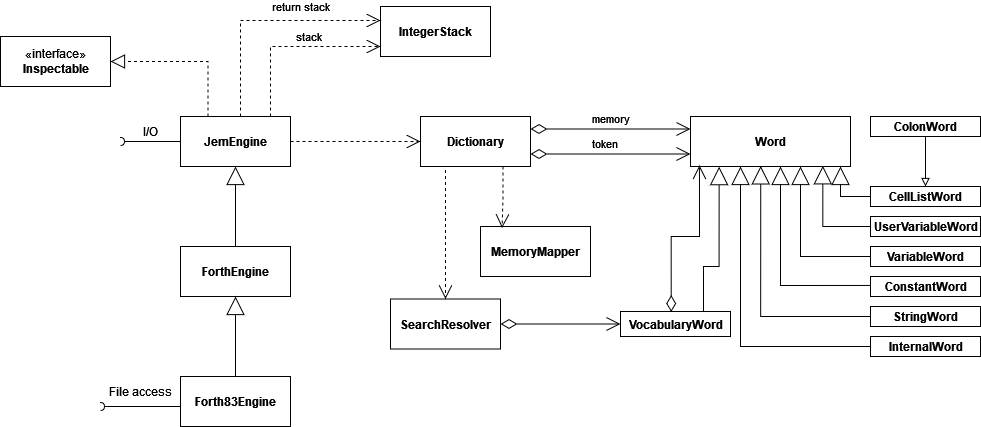
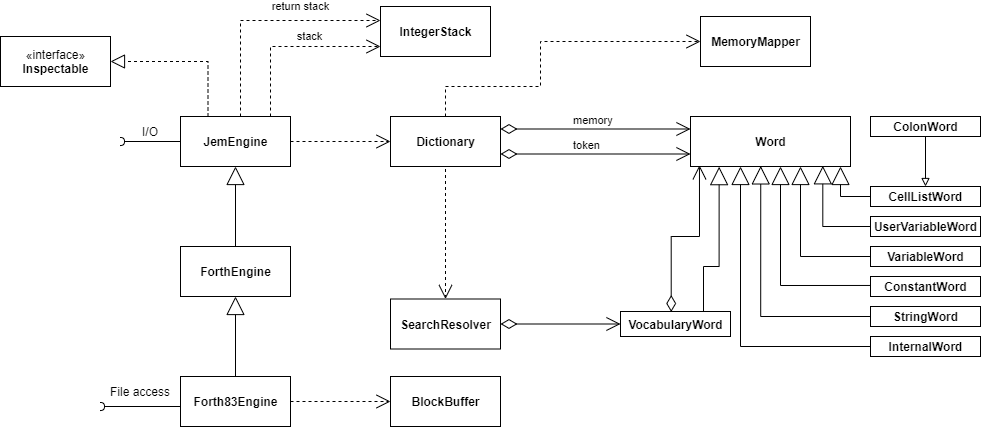
documanted the overall structure

diff --git a/src/doc/engine.md b/src/doc/engine.md
@@ -1,0 +1,117 @@
+# The Forth Class Model #
+
+The class diagram shows all classes involved in the forth engine system.
+It does not cover the classes connecting the entige to the "real world"
+such as the text console an the graphical IDE.
+![engine model diagram](engineModel.png)
+
+## Overview ##
+
+The system consists of x components 
+- The core engine with
+    - The memory stack
+    - The return Stack
+- The Dictionery with
+    - The Memory Mapper
+
+
+## The Engine Core ##
+The engine does the computing itself. It interprets existing words and
+compiles new words. It holds the two stacks needed for preocessing and
+has interfaces for I/O and file access.
+
+The <tt>inspectable</tt> interface is used to plug the enine into the IDE
+to display the internal state and provides a hook for debugging features.
+
+The core implementation is currently devided into thee classes inheriting from each other.
+The idea is to have layers for the implementation of different engines. The only one that is
+in some way complete is the <tt>Forth83Engine</tt> class that implements most of the Forth 83 standard.
+figForth 79, Forth 2012 might be other implementations.
+
+### JemEngine ###
+The Base class contains only a minimum set of fofth words needed.
+Anything else might be implemented as java or forth code in the other classes.
+It keeps the Stacks and provides all basic operations on them to keep the
+implementation hidden from the sub classes. The I/O is merely a set of hooks that
+are wrapped by forth words. The sub classes or the embedding system may provide
+implementations.
+
+### ForthEngine ###
+Contains a set of java implementations for forth words that are common to most of the
+forth variants. It is not good practice to use inheritance only to share methods and static
+elemnts -- especially _static_ elements like fields. But actually it was the easiest way to
+get all the words together and -- it works :-)
+
+### Forth83Engine ###
+This is, as mentioned above, a nearly complete implementation of the Forth 83 stdandard.
+Including the 1k-block oriented access to the file system emulated by the class <tt>BlockBuffer</tt>.
+
+It comes with a monochrome text console for a nice retro experience :-)<br>
+I also used it as an example to experiment with reactive pipes and the more classical I/O.
+
+## The Dictionary ##
+The Dictionary is the structure that contains all word definitions of a forth
+engine. The words in a dictionary may be grouped into multiple vocabularies.
+
+The vocabularies are not manages by a separate vocabulary class.
+Instead we use the forth approach and keep the words of a vocabulary as
+a list in a special <tt>VocabularyWord</tt> instance.
+
+The original forth approach to retrieve words throuch a linked list was replaced
+by an ordinary java <tt>List</tt> that is searched sequentially. The access speed
+should be similar but it should always be possible to replace the dictionary
+by a completely different implementation.
+
+A real forth system can access words by their physical memory access. Since the
+memory access in jemforth is not implemented as a big linear array, the access
+is speeded up by using an access token (xt) that identifies the word. The dictionary
+keepd a hash table that maps access token to word instances. This is not a hack,
+"real" threaded languages use the xt concept when the memory cannot be accessed
+directly or is not organized sequentially.
+
+The <tt>Dictionary</tt> class handles the memory access through the methods
+<tt>fetch</tt>, <tt>cFetch</tt>, <tt>store</tt> and <tt>cStore</tt>. The actual
+access to the data stored in the words is delegated to the individul words.
+The address calculation is delegated to the class <tt>MemoryMapper</tt>.
+
+### The SearchResolver ###
+The implementation is a bit messy here. The Forth83 standard uses a different approach
+to organize vocabularies in the decitionary. There's the _current_ dictionary that is
+used to retrieve words and the compile dictionary to which new words are compiled.
+
+The implementation got mixed up with the 2012 approach that uses _search orders_ to
+organize the vocabularies. Zhe implementatio is a hybrid that tries to combine both
+concepts -- this is not ideal...
+
+### The MemoryMapper ###
+In a real forth system (real) memory is organized as a large random access
+array with consecutive numbered cells. The JVM does not allow access to the
+physical memory making all memory access virtual. As a consequence jemForth
+emulates the linear address space making real memory access even more virtual
+than the virtual memory access of the JVM...
+
+The memory mapper is used to map logical memory specifiers -- the locators -- to
+point into a virtual linear memory space. The locators are integer numbers, not classes.
+This way address mapping can be done with bit operations and basic arithmetic operations
+for a better performance.
+
+It might be interesting to implement a strictly linear address space but it might be
+challenging to combine this with the java oriented word implemetations. The memoy mapping
+on the other hand enables pretty unforthy features as growing and shrinking string words.
+
+The memory mapper is basically a collection of static methods for address mapping.
+The only non static feature is a memory pointer that points to the next locator available 
+for word definition. There might be a problem when memory is freed with the FORGET word...
+
+### Words ###
+Always come easy -- when you are high on forth...
+
+Every word in a real forth system has the same structure. I wanted to use the power of java,
+especially the power of lambda expressions in the implememtation. Since it is not possible
+to use a memory address in java to directly trigger the processor interpretation, lambda expressions
+are used to represent native machine language. This is pretty close and pretty cool either.
+
+To make the implementation even easier I decided to use different implementations for different
+words. It is possible to implement a minimalistic forth engine that uses only forth mechanisms
+to implement the different words -- that's the real hidden force behind forth -- but I have to
+admid I was to lazy... I leave is as an exercise to the reder :-)
